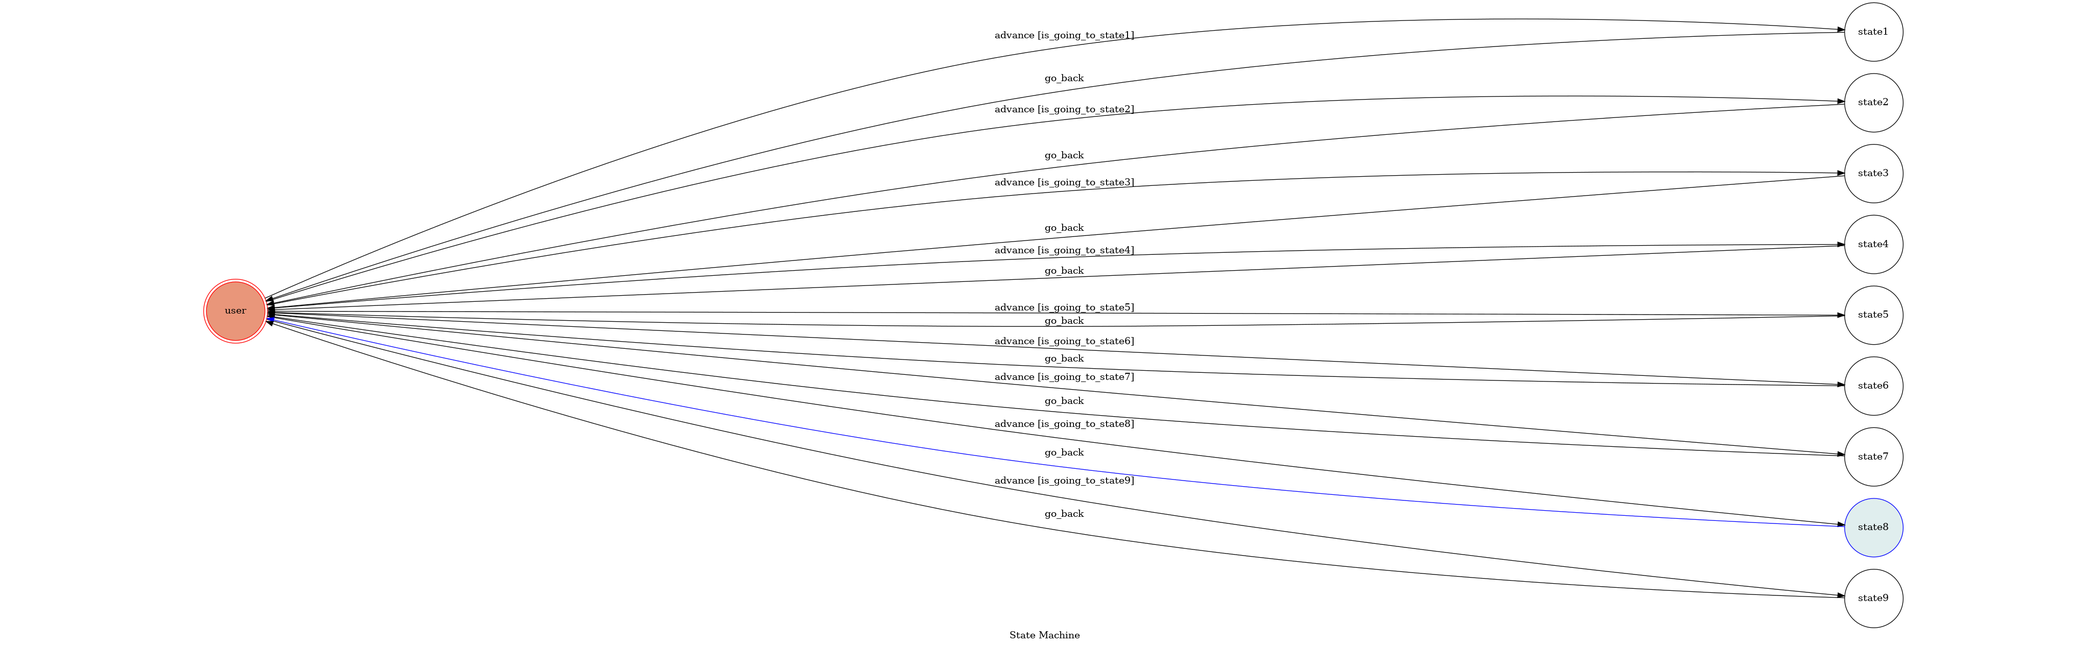
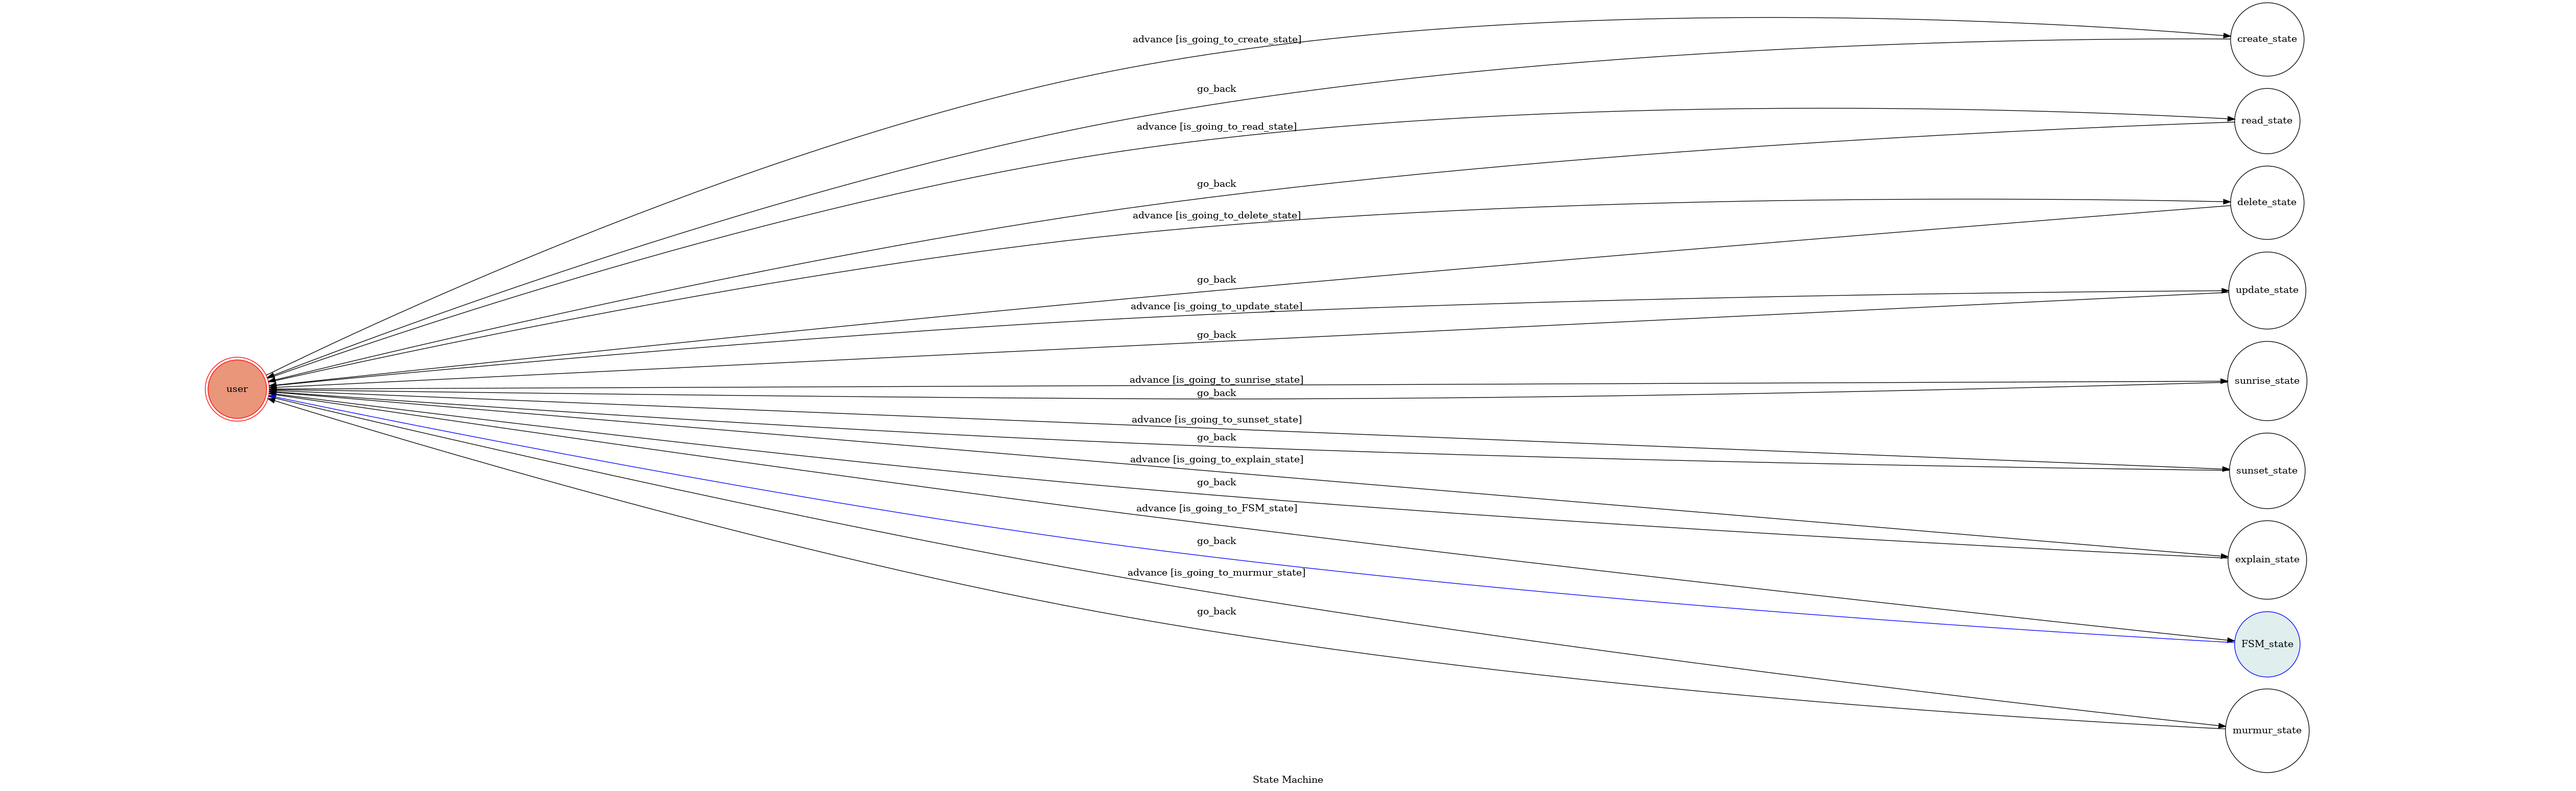
refactor: rename state

diff --git a/fsm.py b/fsm.py
@@ -2,71 +2,72 @@ from transitions.extensions import GraphMachine
 import datetime
 from utils import send_text_message,send_image_url
 import crawler
+import os
 
 
 class TocMachine(GraphMachine):
     def __init__(self, **machine_configs):
         self.machine = GraphMachine(model=self, **machine_configs)
         self.user_data=dict()
-    def is_going_to_state1(self, event):
+    def is_going_to_create_state(self, event):
         text = event.message.text
 
         if "增" == text[0]:
           return True  
         return False
-        # return text.lower() == "go to state1"
+        # return text.lower() == "go to create_state"
 
-    def is_going_to_state2(self, event):
+    def is_going_to_read_state(self, event):
         text = event.message.text
         if "查" == text[0]:
           return True  
         return False
-        # return text.lower() == "go to state2"
+        # return text.lower() == "go to read_state"
 
-    def is_going_to_state3(self, event):
+    def is_going_to_delete_state(self, event):
         text = event.message.text
         if "刪" == text[0]:
           return True  
         return False
 
-    def is_going_to_state4(self, event):
+    def is_going_to_update_state(self, event):
         text = event.message.text
         if "改" == text[0]:
           return True  
         return False
     
-    def is_going_to_state5(self, event):
+    def is_going_to_sunrise_state(self, event):
         text = event.message.text
         if "日出" == text:
           return True  
         return False
     
-    def is_going_to_state6(self, event):
+    def is_going_to_explain_state(self, event):
         text = event.message.text
         if "解說" == text[0:2]:
           return True  
         return False
     
-    def is_going_to_state7(self, event):
+    def is_going_to_sunset_state(self, event):
         text = event.message.text
         if "日落" == text:
           return True  
         return False
     
-    def is_going_to_state8(self, event):
+    def is_going_to_FSM_state(self, event):
         text = event.message.text
         if "FSM" == text:
           return True  
         return False
     
-    def is_going_to_state9(self, event):
+    def is_going_to_murmur_state(self, event):
         text = event.message.text
         if "還說不能傳空訊息" == text:
           return True  
         return False
 
-    def on_enter_state1(self, event):   #增 new_task1 new_task2...
-        print("I'm entering state1")
+    def on_enter_create_state(self, event):   #增 new_task1 new_task2...
+        print("I'm entering create_state")
 
         #從event抓資料
         text = event.message.text
@@ -96,11 +97,11 @@ class TocMachine(GraphMachine):
         send_text_message(reply_token, output_str)
         self.go_back()
 
-    def on_exit_state1(self):
-        print("Leaving state1")
+    def on_exit_create_state(self):
+        print("Leaving create_state")
 
-    def on_enter_state2(self, event):   #查
-        print("I'm entering state2")
+    def on_enter_read_state(self, event):   #查
+        print("I'm entering read_state")
 
         #從event抓資料
         reply_token = event.reply_token
@@ -118,11 +119,11 @@ class TocMachine(GraphMachine):
         send_text_message(reply_token, output_str)
         self.go_back()
 
-    def on_exit_state2(self):
-        print("Leaving state2")
+    def on_exit_read_state(self):
+        print("Leaving read_state")
     
-    def on_enter_state3(self, event):   #刪 old_tasks1 old_tasks2...
-        print("I'm entering state3")
+    def on_enter_delete_state(self, event):   #刪 old_tasks1 old_tasks2...
+        print("I'm entering delete_state")
 
         #從event抓資料
         text = event.message.text
@@ -166,11 +167,11 @@ class TocMachine(GraphMachine):
         send_text_message(reply_token, output_str)
         self.go_back()
 
-    def on_exit_state3(self):
-        print("Leaving state3")
+    def on_exit_delete_state(self):
+        print("Leaving delete_state")
 
-    def on_enter_state4(self, event):   #改 old_task new_task
-        print("I'm entering state4")
+    def on_enter_update_state(self, event):   #改 old_task new_task
+        print("I'm entering update_state")
 
         #從event抓資料
         text = event.message.text
@@ -204,11 +205,11 @@ class TocMachine(GraphMachine):
         send_text_message(reply_token, output_str)
         self.go_back()
 
-    def on_exit_state4(self):
-        print("Leaving state4")
+    def on_exit_update_state(self):
+        print("Leaving update_state")
     
-    def on_enter_state5(self, event):   #日出
-        print("I'm entering state5")
+    def on_enter_sunrise_state(self, event):   #日出
+        print("I'm entering sunrise_state")
 
         #從event抓資料
         reply_token = event.reply_token
@@ -223,18 +224,18 @@ class TocMachine(GraphMachine):
         send_text_message(reply_token, output_str)
         self.go_back()
 
-    def on_exit_state5(self):
-        print("Leaving state5")
+    def on_exit_sunrise_state(self):
+        print("Leaving sunrise_state")
     
-    def on_enter_state6(self, event):   #解說指令
-        print("I'm entering state6")
+    def on_enter_explain_state(self, event):   #解說指令
+        print("I'm entering explain_state")
         self.go_back()
 
-    def on_exit_state6(self):
-        print("Leaving state6")
+    def on_exit_explain_state(self):
+        print("Leaving explain_state")
 
-    def on_enter_state7(self, event):   #日落
-        print("I'm entering state5")
+    def on_enter_sunset_state(self, event):   #日落
+        print("I'm entering sunset_state")
 
         #從event抓資料
         reply_token = event.reply_token
@@ -249,23 +250,24 @@ class TocMachine(GraphMachine):
         send_text_message(reply_token, output_str)
         self.go_back()
 
-    def on_exit_state7(self):
-        print("Leaving state7")
+    def on_exit_sunset_state(self):
+        print("Leaving sunset_state")
     
-    def on_enter_state8(self, event):   #FSM
-        print("I'm entering state8")
+    def on_enter_FSM_state(self, event):   #FSM
+        print("I'm entering FSM_state")
         reply_token = event.reply_token
-        send_image_url(reply_token, "https://6294-2001-b400-e73c-9a73-a550-6d9a-effb-247b.ngrok.io/show-fsm")
+        HOST_IP= os.environ.get("HOST_NAME", "0.0.0.1")
+        send_image_url(reply_token, HOST_IP+"/show-fsm")
         self.go_back()
 
-    def on_exit_state8(self):
-        print("Leaving state8")
+    def on_exit_FSM_state(self):
+        print("Leaving FSM_state")
     
-    def on_enter_state9(self, event):   #可憐啊
-        print("I'm entering state9")
+    def on_enter_murmur_state(self, event):   #可憐啊
+        print("I'm entering murmur_state")
         reply_token = event.reply_token
         send_image_url(reply_token,"https://memeprod.sgp1.digitaloceanspaces.com/meme/a9a16134b16c3a8d71fbd3ea723f9efe.png")
         self.go_back()
 
-    def on_exit_state9(self):
-        print("Leaving state9")
+    def on_exit_murmur_state(self):
+        print("Leaving murmur_state")

diff --git a/app.py b/app.py
@@ -14,65 +14,65 @@ load_dotenv()
 
 
 machine = TocMachine(
-    states=["user", "state1", "state2","state3","state4","state5","state6","state7","state8","state9"],
+    states=["user", "create_state", "read_state","delete_state","update_state","sunrise_state","sunset_state","explain_state","FSM_state","murmur_state"],
     transitions=[
         {
             "trigger": "advance",
             "source": "user",
-            "dest": "state1",
-            "conditions": "is_going_to_state1",
+            "dest": "create_state",
+            "conditions": "is_going_to_create_state",
         },
         {
             "trigger": "advance",
             "source": "user",
-            "dest": "state2",
-            "conditions": "is_going_to_state2",
+            "dest": "read_state",
+            "conditions": "is_going_to_read_state",
         },
         {
             "trigger": "advance",
             "source": "user",
-            "dest": "state3",
-            "conditions": "is_going_to_state3",
+            "dest": "delete_state",
+            "conditions": "is_going_to_delete_state",
         },
         {
             "trigger": "advance",
             "source": "user",
-            "dest": "state4",
-            "conditions": "is_going_to_state4",
+            "dest": "update_state",
+            "conditions": "is_going_to_update_state",
         },
         {
             "trigger": "advance",
             "source": "user",
-            "dest": "state5",
-            "conditions": "is_going_to_state5",
+            "dest": "sunrise_state",
+            "conditions": "is_going_to_sunrise_state",
         },
         {
             "trigger": "advance",
             "source": "user",
-            "dest": "state6",
-            "conditions": "is_going_to_state6",
+            "dest": "explain_state",
+            "conditions": "is_going_to_explain_state",
         },
         {
             "trigger": "advance",
             "source": "user",
-            "dest": "state7",
-            "conditions": "is_going_to_state7",
+            "dest": "sunset_state",
+            "conditions": "is_going_to_sunset_state",
         },
         {
             "trigger": "advance",
             "source": "user",
-            "dest": "state8",
-            "conditions": "is_going_to_state8",
+            "dest": "FSM_state",
+            "conditions": "is_going_to_FSM_state",
         },
         {
             "trigger": "advance",
             "source": "user",
-            "dest": "state9",
-            "conditions": "is_going_to_state9",
+            "dest": "murmur_state",
+            "conditions": "is_going_to_murmur_state",
         },
         {
             "trigger": "go_back", 
-            "source": ["state1", "state2","state3","state4","state5","state6","state7","state8","state9"], 
+            "source": ["create_state", "read_state","delete_state","update_state","sunrise_state","explain_state","sunset_state","FSM_state","murmur_state"], 
             "dest": "user"
         },
     ],

diff --git a/utils.py b/utils.py
@@ -76,7 +76,7 @@ def send_main_menu_message(reply_token):
                         ),
                         MessageTemplateAction(
                             label='LINE說不塞這欄就吃error',
-                            text='還說不能傳空訊息'
+                            text='也不能傳空訊息'
                         )
                     ]
                 ),
